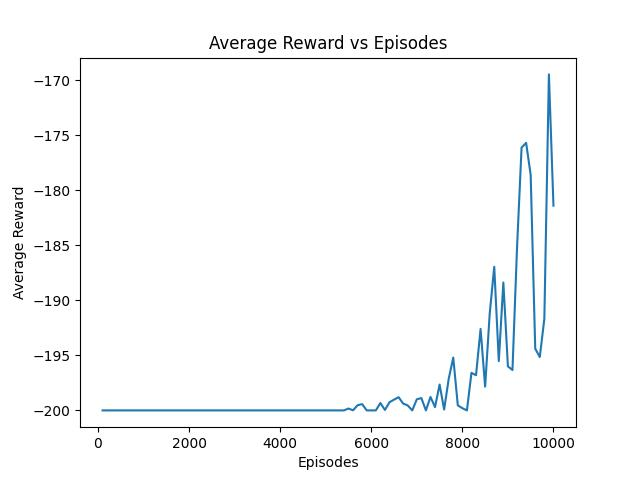
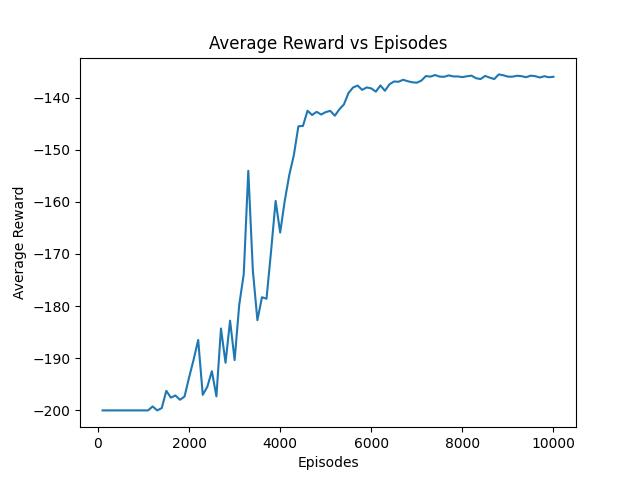
Slightly different epsilon decay

diff --git a/mountain_car.py b/mountain_car.py
@@ -26,7 +26,7 @@ def QLearning(env, learning, discount, epsilon, min_eps, episodes):
     ave_reward_list = []
 
     # Calculate episodic reduction in epsilon
-    reduction = (epsilon - min_eps) / episodes
+    reduction = 0.999
 
     # Run Q learning algorithm
     for i in range(episodes):
@@ -75,8 +75,7 @@ def QLearning(env, learning, discount, epsilon, min_eps, episodes):
             state_adj = state2_adj
 
         # Decay epsilon
-        if epsilon > min_eps:
-            epsilon -= reduction
+        epsilon = reduction * epsilon + min_eps*(1 - reduction)
 
         # Track rewards
         reward_list.append(tot_reward)
@@ -87,14 +86,14 @@ def QLearning(env, learning, discount, epsilon, min_eps, episodes):
             reward_list = []
 
         if (i + 1) % 100 == 0:
-            print('Episode {} Average Reward: {}'.format(i + 1, ave_reward))
+            print(f'Episode {i + 1}, Average Reward: {ave_reward}, epsilon: {epsilon}')
 
     env.close()
     return ave_reward_list, Q
 
 
 # Run Q-learning algorithm
-rewards, Q = QLearning(env, 0.2, 0.9, 0.8, 0, 10_000)
+rewards, Q = QLearning(env, 0.2, 1., 1., 0.0, 10_000)
 np.save(f"weights-{datetime.datetime.now().isoformat(timespec='seconds')}", Q)
 # Plot Rewards
 plt.plot(100 * (np.arange(len(rewards)) + 1), rewards)

diff --git a/replay_mountaincar.py b/replay_mountaincar.py
@@ -20,13 +20,16 @@ def run(env):
     state_adj = (state - env.observation_space.low) * np.array([10, 100])
     state_adj = np.round(state_adj, 0).astype(int)
     image_list = []
+    total_reward = 0
     while not done and not truncated:
         img = env.render()
         image_list.append(img)
         action = np.argmax(Q[state_adj[0], state_adj[1]])
-        state, _, done, truncated, _ = env.step(action)
+        state, reward, done, truncated, _ = env.step(action)
         state_adj = (state - env.observation_space.low) * np.array([10,100])
         state_adj = (state_adj + 0.5).astype(int)
+        total_reward += reward
+    print(total_reward)
     return image_list
 image_list = run(env)
 

diff --git a/README.md b/README.md
@@ -6,7 +6,7 @@ Lifted from https://gist.github.com/gkhayes/3d154e0505e31d6367be22ed3da2e955 wit
 ```bash
 python mountain_car.py
 ```
-This command took 2 min to run and produced the following plot (reward is equal to the number of time steps until it reaches the goal)
+This command took 1 min to run and produced the following plot (reward is equal to the number of time steps until it reaches the goal)
 
 ![image](img/rewards.jpg)
 
